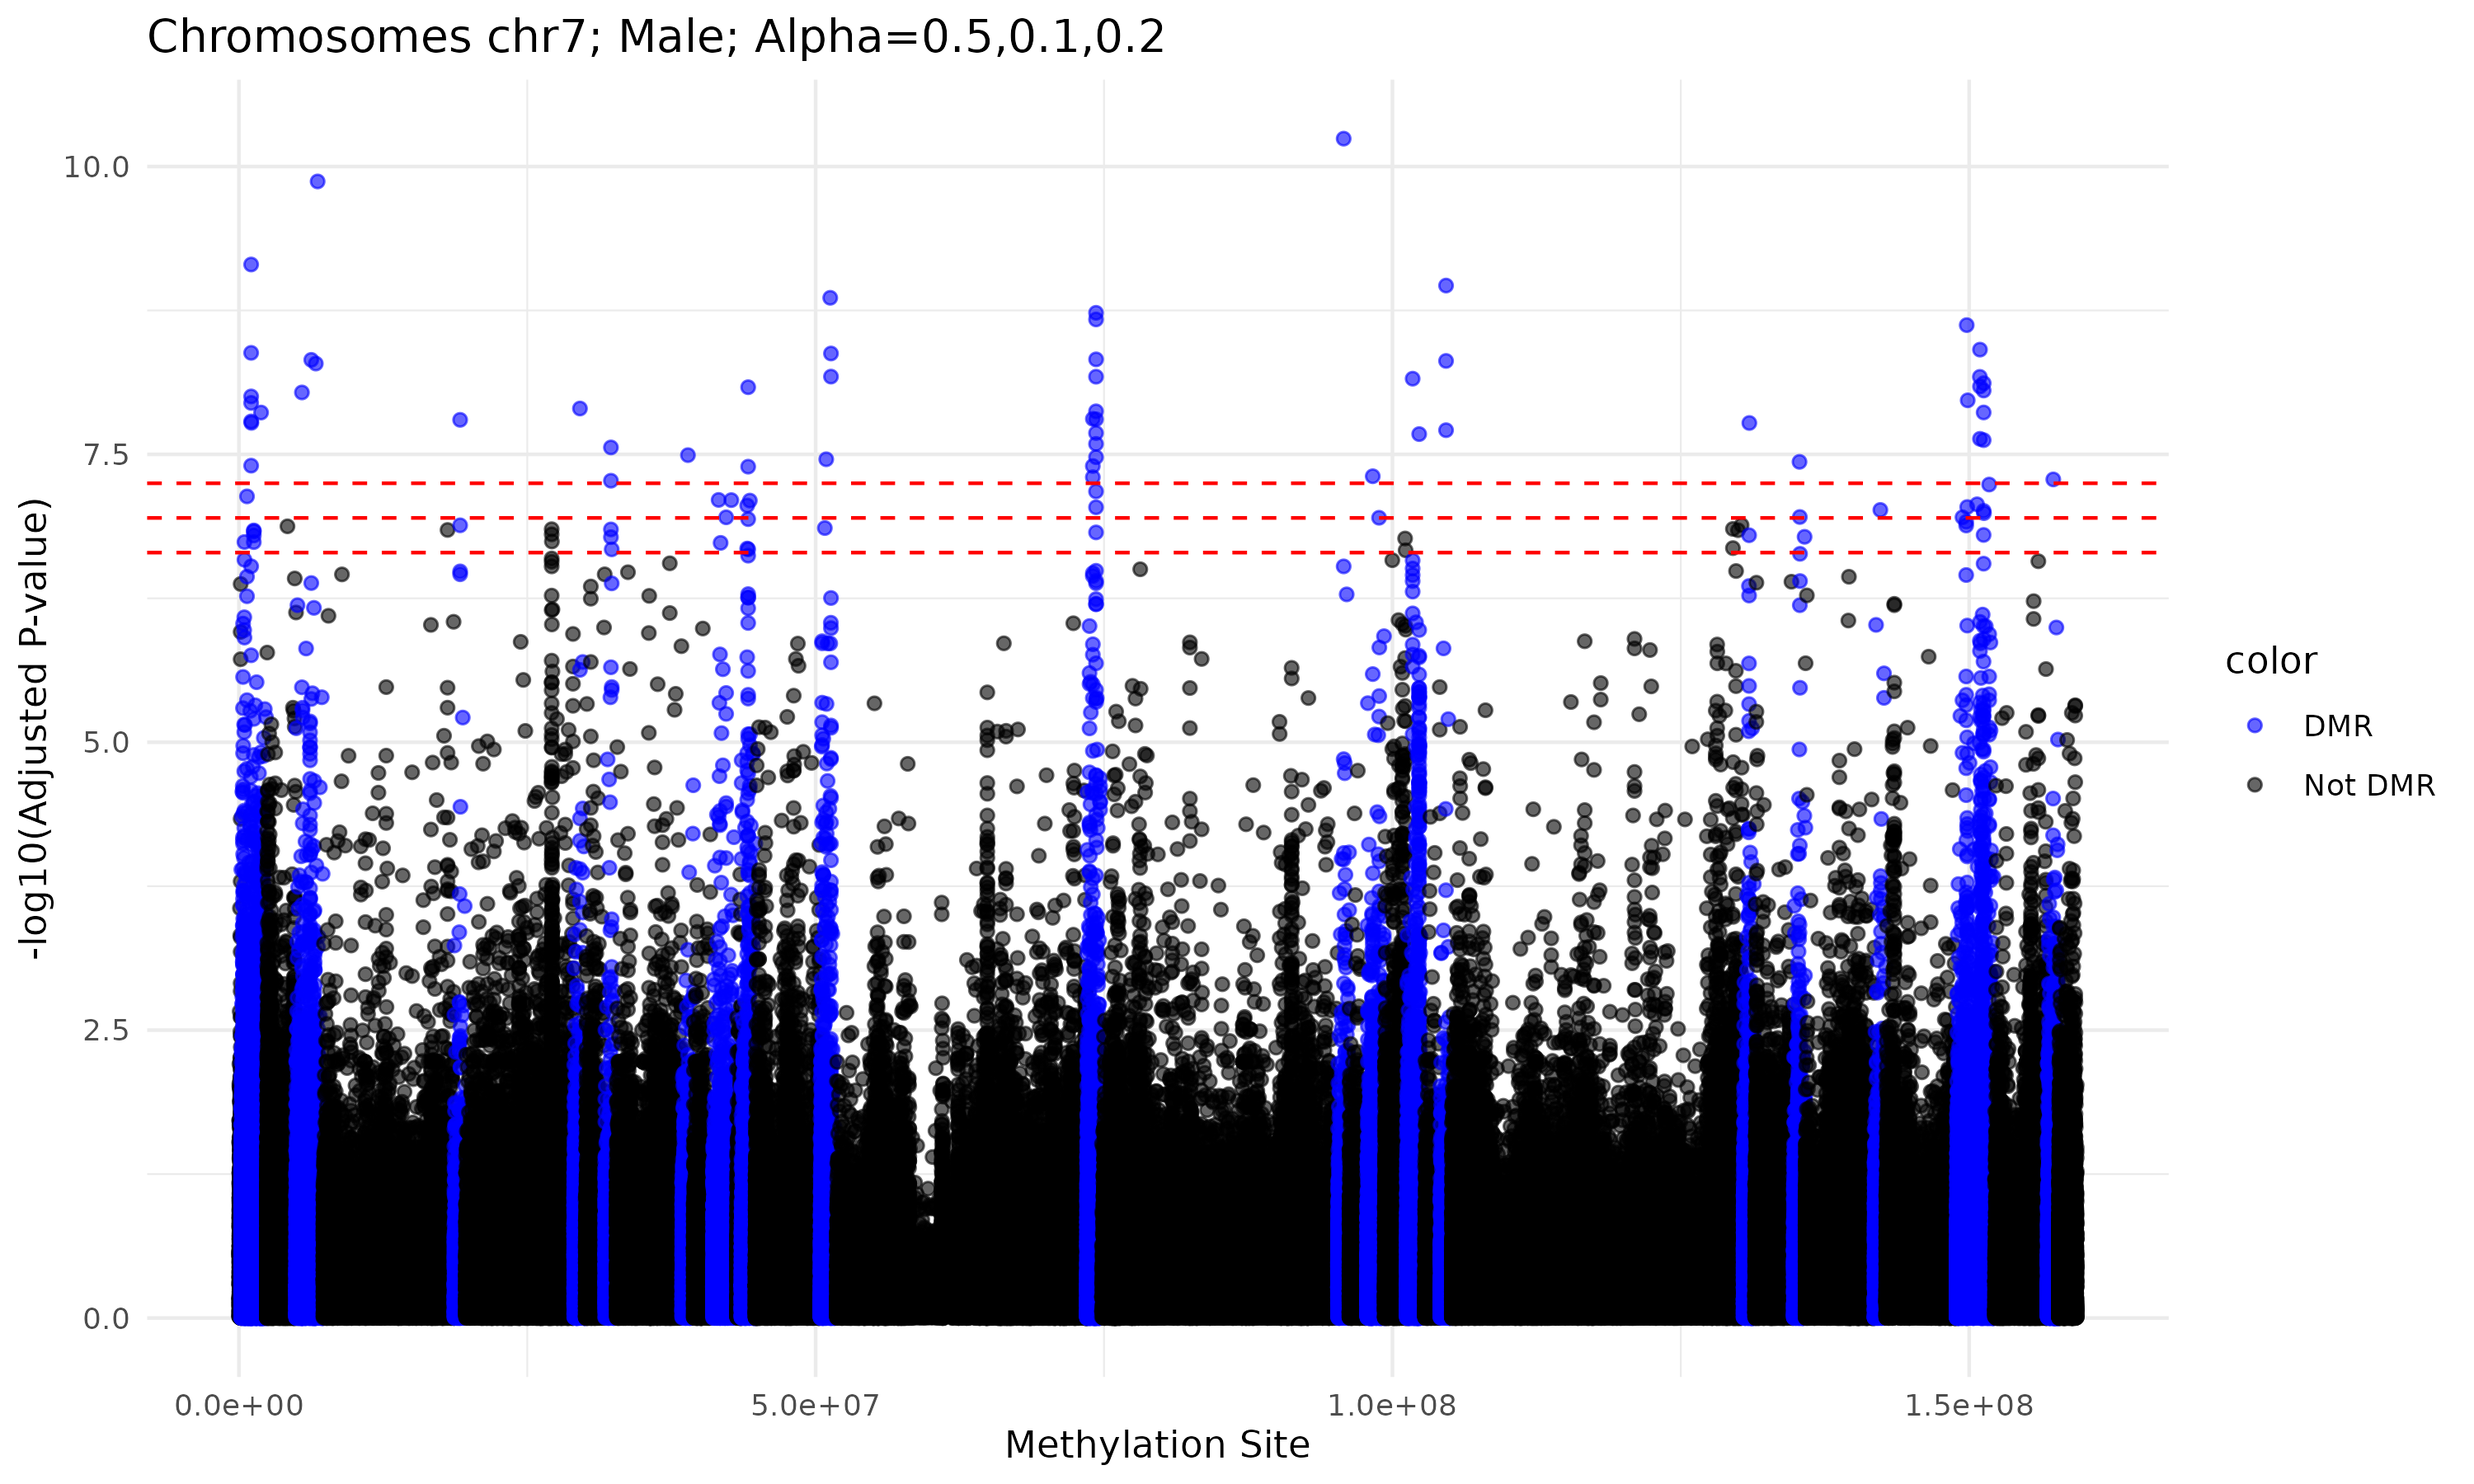
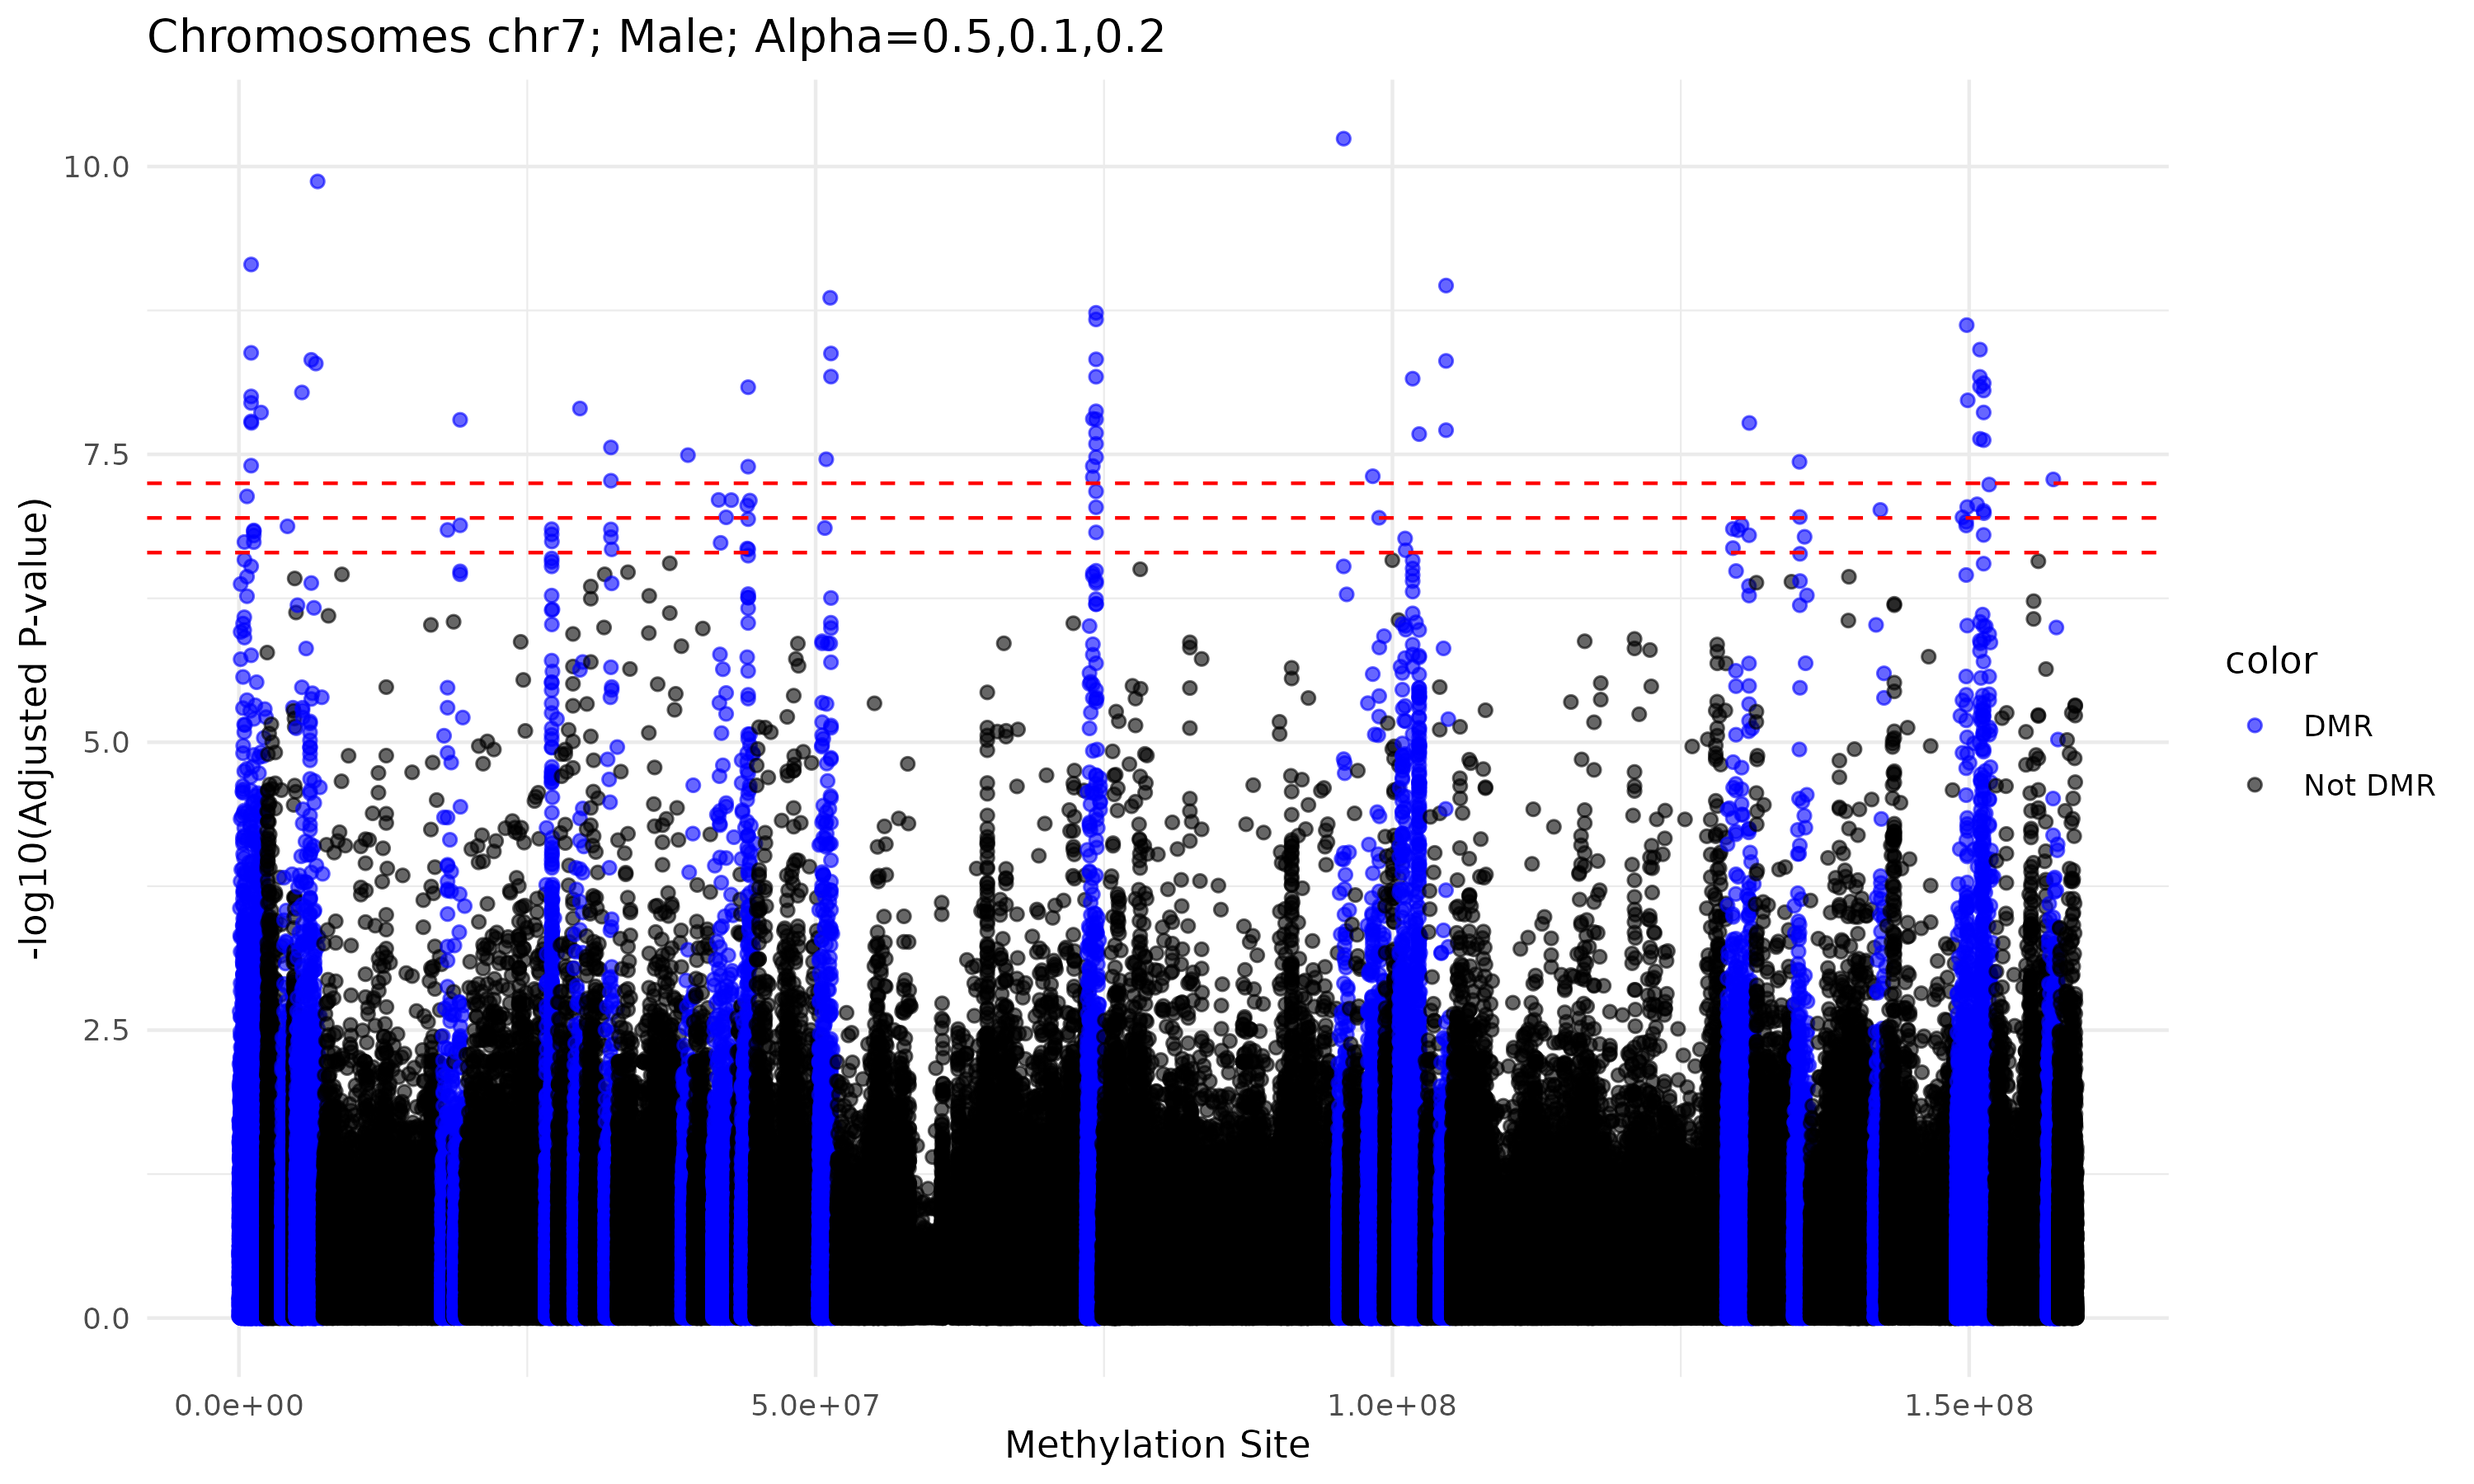
01/12 - 2

diff --git a/cas_etude/BluePrint_data.html b/cas_etude/BluePrint_data.html
@@ -585,7 +585,18 @@ display: none;
 library(kableExtra)
 library(magrittr)
 library(tidyverse)
-knitr::opts_knit$set(root.dir=&quot;/mnt/campus/math/research/kfouda/main/HEC/Melina/latest/cas_etude/&quot;)
+library(Jmisc)
+library(DiceEval)
+library(parallel)
+library(plotly)
+library(mgcv)
+library(Rcpp)
+library(RColorBrewer)
+library(ggpubr)
+library(ZIprop)
+library(corrplot)
+#source(&quot;methyl_func.R&quot;)
+#sourceAll(path=&quot;../functions/&quot;)
 #setwd(&quot;/mnt/campus/math/research/kfouda/main/HEC/Melina/latest/cas_etude/&quot;)</code></pre>
 <p>We analyze the gene methylation data derived from the Whole Genome
 Bisulfite Sequencing (WGBS) of the BLUEPRINT methylomes, as released in
@@ -1191,6 +1202,121 @@ regions with siginficant effect. I’ve included only the first 7
 chromosomes (also the 7 largest chromosomes) and I’m in the process of
 processing 6 more chromosomes in the hope that one of them might have
 regions correlated with age.</p>
+<p>The following two functions compute the p-values and dmr regions.</p>
+<pre class="r"><code>compute_p_values_and_plot &lt;- function(chromosome, load_p_values=TRUE, Male.Only=TRUE, plot = TRUE,
+                              alpha=0.05, min_freq=1, middle_point=FALSE, floor_by=1e7){
+
+   #&#39; This function either computes the p_values as discussed in the document or plot them or both.
+   #&#39; 
+   Y = readRDS(paste0(&quot;new_data/Ydat_common_&quot;,chromosome,&quot;.rds&quot;))
+   X = readRDS(paste0(&quot;new_data/Xdat_common_&quot;,chromosome,&quot;.rds&quot;)) %&gt;% as.data.frame() #%&gt;% 
+   sites = readRDS(paste0(&quot;new_data/sites_common_&quot;,chromosome,&quot;.rds&quot;))
+   
+   male_indices = which(X$MALE == 1)
+   Y = Y[male_indices,]
+   X = X[male_indices,]
+   
+   site_order = order(sites) 
+   Y = Y[,site_order]
+   sites = sites[site_order]
+   
+   dim(Y)
+   N = ncol(Y)
+   K = nrow(Y)
+   #--------------------------------
+   if(load_p_values == TRUE){
+      p_values = readRDS(paste0(&quot;new_data/p_values_&quot;,chromosome, &quot;.rds&quot;))
+   }else{
+      library(parallel)
+      no_cores &lt;- 12             
+      cl &lt;- makeCluster(no_cores)
+      
+      Age = X$AGE
+      clusterExport(cl, varlist = c(&quot;Y&quot;))
+      
+      p_values &lt;- parSapply(cl, 1:ncol(Y), function(i) {
+         model &lt;- lm(Y[, i] ~ Age) 
+         summary(model)$coefficients[&quot;Age&quot;, &quot;Pr(&gt;|t|)&quot;]
+      }) 
+      stopCluster(cl)
+      saveRDS(p_values, paste0(&quot;new_data/p_values_&quot;,chromosome,&quot;.rds&quot;))
+   }
+   
+   if(plot == TRUE){
+      
+      dmr_regions = get_dmr_regions(p_values, sites, alpha= alpha, min_freq = min_freq, return_seq = T,
+                                    middle_point = middle_point,floor_by = floor_by)
+      
+      
+      print(length(dmr_regions))
+      data.frame(x = 1:N, Site= sites, NegLogP = - log10(p_values)) %&gt;% 
+         mutate(color = ifelse(Site %in% dmr_regions,&quot;DMR&quot;,&quot;Not DMR&quot;)) -&gt;
+         manh.dat
+      #---------------------------------------------------------------------
+      #--------------------------------------------------------------------
+      
+      manh.dat %&gt;% 
+         ggplot(aes(Site, NegLogP, color=color, fill=color)) +  
+         geom_point(alpha = 0.6) +
+         scale_color_manual(values = c(&quot;DMR&quot; = &quot;blue&quot;, &quot;Not DMR&quot; = &quot;black&quot;)) +
+         theme_minimal() +
+         #scale_x_continuous(limits=c(0,2e8))+
+         xlab(&quot;Methylation Site&quot;) +
+         ylab(&quot;-log10(Adjusted P-value)&quot;) +
+         geom_hline(yintercept = -log10(0.05/N), linetype = &quot;dashed&quot;, color = &quot;red&quot;)+ 
+         geom_hline(yintercept = -log10(0.1/N), linetype = &quot;dashed&quot;, color = &quot;red&quot;)+ 
+         geom_hline(yintercept = -log10(0.2/N), linetype = &quot;dashed&quot;, color = &quot;red&quot;)+ 
+         ggtitle(paste0(&quot;Chromosomes &quot;,chromosome,&quot;; Male&quot;,&quot;; Alpha=0.5,0.1,0.2&quot;)) -&gt; p 
+      
+      ggsave(filename = paste0(&quot;./graphs/manhattan_plot_&quot;,chromosome,&quot;_Male&quot;, &quot;.png&quot;),
+             plot = p, width = 10, height = 6, dpi = 300) 
+   }
+}
+#------------------------
+# Example use:
+for(chr in paste0(&quot;chr&quot;,c(7,8,12,11,17)))
+   run_p_values_plot(chr, load_p_values = TRUE, alpha=0.1, min_freq=1, middle_point=TRUE, floor_by=1e6, plot=TRUE) 
+#--------------------------------------</code></pre>
+<pre class="r"><code>get_dmr_regions &lt;- function(p_values, sites, alpha=0.1, floor_by=1e7, min_freq=2, return_seq=FALSE,
+                            middle_point=FALSE){
+   
+   #&#39; if middle_point = FALSE then the sites are divided into equal regions of size floor_by and a region is considered
+   #&#39; dmr if it has at least min_freq of points below alpha/N.
+   #&#39; set return_seq = TRUE to return a list of all possible sites in the dmr regions
+   #&#39; if middle_point = TRUE  then it considers each point of p_value smaller than alpha/N and 
+   #&#39; takes floor_by/2 of points before and after it
+   #&#39; if return_seq = FALSE: then a list of sites where the p_value is smaller than alpha/N is returned for middle_point=TRUE
+   #&#39; and  a list of starting positions of chosen regions for middle_point = FALSE
+   
+   N = length(sites)
+   
+   if(middle_point == TRUE){
+      loci = sort(sites[which(p_values &lt; (alpha/N))])
+      if(return_seq == TRUE){
+         sequen = c()
+         step_size = round(floor_by/2)
+         end_site = 1
+         for(i in 1:length(loci)){
+            start_site = max( end_site, loci[i]-step_size)
+            end_site = loci[i] + step_size
+            sequen = c(sequen, start_site: end_site)
+         }
+         return(sequen)
+      }
+      return(loci)
+   }
+   
+   as.data.frame(table(floor(sites[which(p_values &lt; (alpha/N))] / floor_by) * floor_by)) %&gt;%
+      arrange(desc(Freq)) %&gt;%
+      filter(Freq &gt;= min_freq) -&gt; results
+   if(return_seq == TRUE){
+      values = as.numeric(as.character(results$Var1)) 
+      sequen = c()
+      for(x in values) sequen = c(sequen, x:(x+1e7))
+      return(sequen)
+   }
+   return(results)
+}</code></pre>
 
 
 
